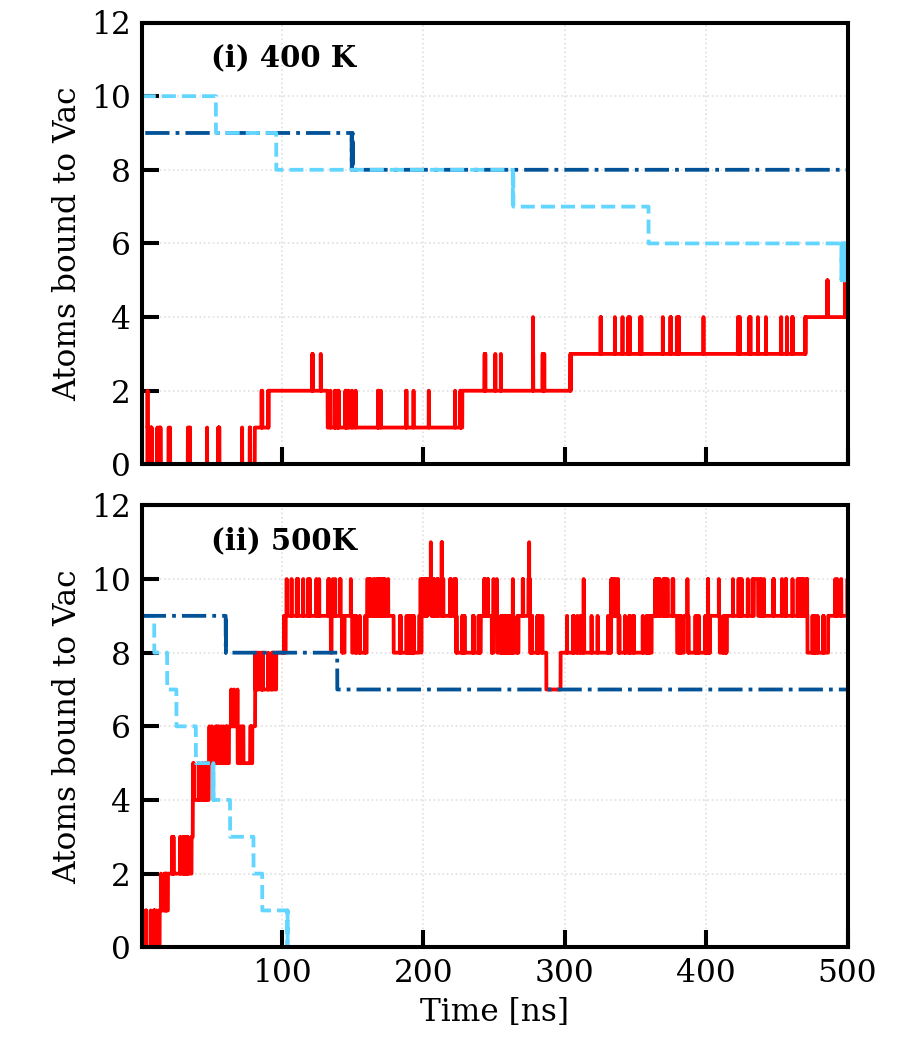
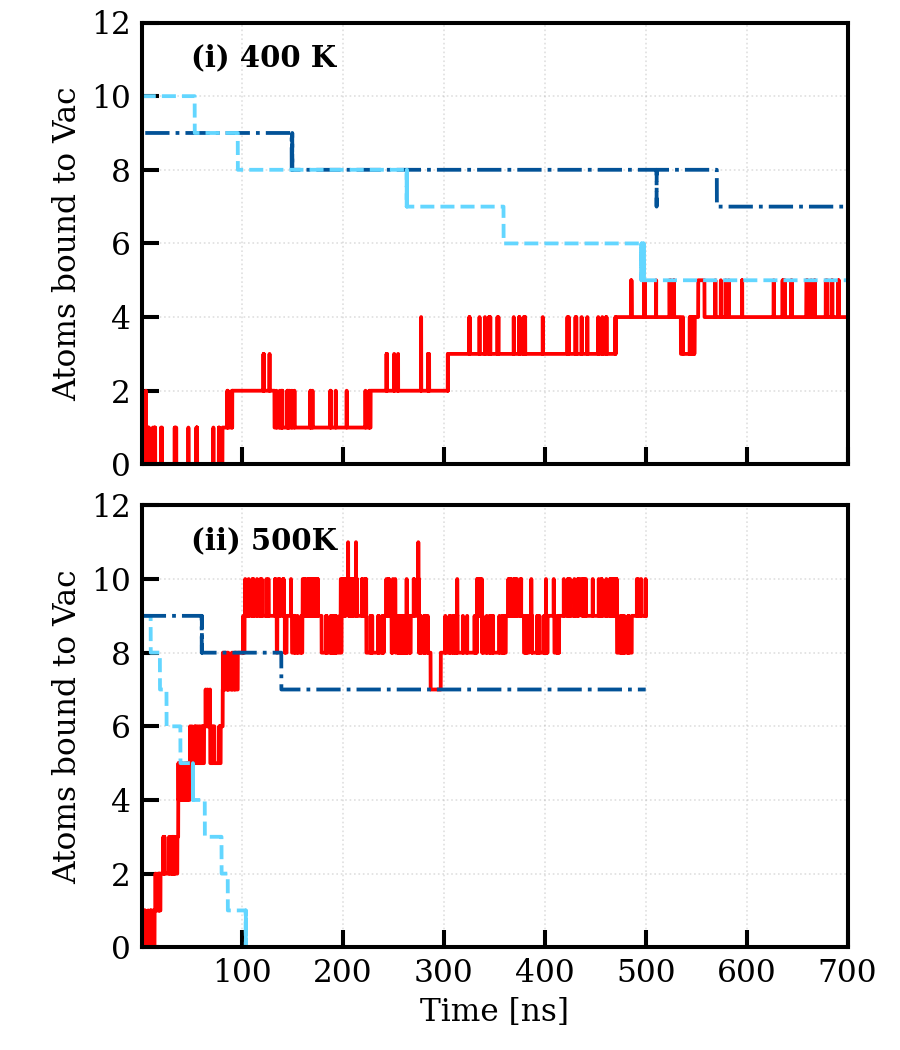
update 2Vac plots

diff --git a/plotting-scripts/plot_2Vac_isoEx_comp.py b/plotting-scripts/plot_2Vac_isoEx_comp.py
@@ -11,8 +11,8 @@ path += '2Vac_isoEx_results/'
 # HinVac.out format: Timestep NTinVac NHinVac NTinCell
 tTH_isoEx = readData(path+'2Vac_2000W_20H_10T_500K_500ns/HinVac.out', [0,1,2])
 tTH_diff  = readData(path+'2Vac_2000W_0H_10T_500K_1000ns/HinVac.out', [0,1,2])
-tTH_isoEx_400K = readData(path+'2Vac_2000W_20H_10T_400K_500ns/HinVac.out', [0,1,2])
-tT_diff_400K  = readData(path+'2Vac_2000W_0H_10T_400K_500ns/HinVac.out', [0,1,2])
+tTH_isoEx_400K = readData(path+'2Vac_2000W_20H_10T_400K_700ns/HinVac.out', [0,1,2])
+tT_diff_400K  = readData(path+'2Vac_2000W_0H_10T_400K_700ns/HinVac.out', [0,1,2])
 
 
 # Convert timesteps --> time in ns
@@ -31,7 +31,7 @@ print('Drawing figures ...')
 fsize = [6.0, 7.0]
 
 # Upper x-axis limit [ns]
-xulim = 500.0
+xulim = 700.0
 
 # axis labels
 ylbl = 'Atoms bound to Vac'
@@ -62,7 +62,7 @@ plt.gca().axes.get_xaxis().set_ticklabels([]) # Hide x-axis tick labels
 plt.subplot(2,1,2)
 plotter(tTH_isoEx[init:final:step, 0], tTH_isoEx[init:final:step,2], isoEx_style['H_iso'], isoEx_labels['H_iso'])
 plotter(tTH_isoEx[init:final:step, 0], tTH_isoEx[init:final:step,1], isoEx_style['T_iso'], isoEx_labels['T_iso'])
-plotter(tTH_diff[:, 0], tTH_diff[:, 1], isoEx_style['T_diff'], isoEx_labels['T_diff'])
+plotter(tTH_diff[0:len(tTH_isoEx[:, 0]), 0], tTH_diff[0:len(tTH_isoEx[:, 0]), 1], isoEx_style['T_diff'], isoEx_labels['T_diff'])
 plt.xlim((1, xulim))
 plt.ylim((0,12))
 plt.xlabel(xlbl)
@@ -100,7 +100,7 @@ plt.gca().axes.get_xaxis().set_ticklabels([]) # Hide x-axis tick labels
 plt.subplot(2,1,2)
 plotter(tTH_isoEx[init:final:step, 0], tTH_isoEx[init:final:step,2], isoEx_style['H_iso'], isoEx_labels['H_iso'])
 plotter(tTH_isoEx[init:final:step, 0], tTH_isoEx[init:final:step,1], isoEx_style['T_iso'], isoEx_labels['T_iso'])
-plotter(tTH_diff[:, 0], tTH_diff[:, 1], isoEx_style['T_diff'], isoEx_labels['T_diff'])
+plotter(tTH_diff[0:len(tTH_isoEx[:, 0]), 0], tTH_diff[0:len(tTH_isoEx[:, 0]), 1], isoEx_style['T_diff'], isoEx_labels['T_diff'])
 plt.xlim((1, xulim))
 plt.ylim((0,12))
 plt.xlabel(xlbl)
